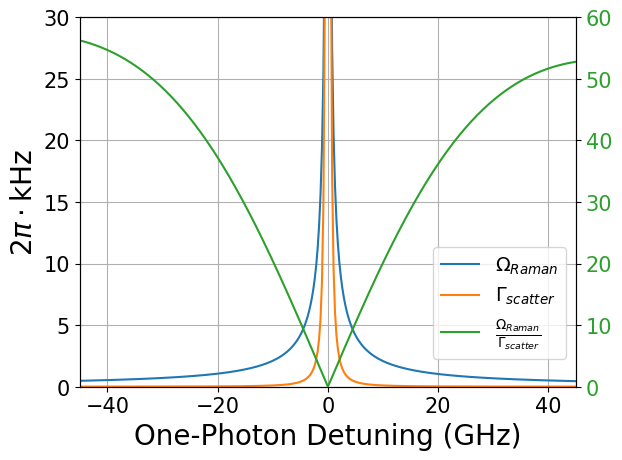
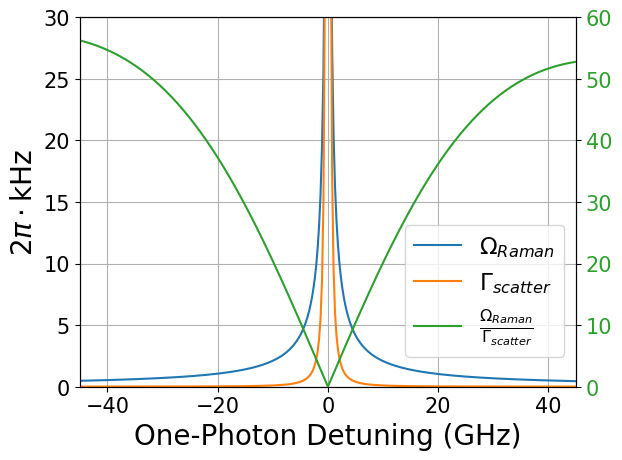
[presentations/damop-2020] WIP: tweak plot, bigger legend

Changed region(s): [[0.6415, 0.487, 0.9164, 0.7913], [0.672, 0.6087, 0.7637, 0.6696]]

diff --git a/presentations/damop-2020/present.tex b/presentations/damop-2020/present.tex
@@ -712,15 +712,15 @@
         };
       }
       \visible<4>{
-        \node[below, text width=6cm, align=center] (ThresholdPlot) at (8.13, 7.5)
+        \node[below, text width=5.4cm, align=center] (ThresholdPlot) at (8.13, 7.5)
         {
           {\usebeamercolor[fg]{frametitle}{\textbf{Near threshold states}}}
-          \includegraphics[width=5.3cm]{imgs/raman_vh.pdf}
+          \includegraphics[width=5.4cm]{imgs/raman_vh.pdf}
         };
-        \node[below, text width=6cm, align=center] (DeepPlot) at (8.13, 3.2)
+        \node[below, text width=5.4cm, align=center] (DeepPlot) at (8.13, 3.2)
         {
           {\usebeamercolor[fg]{frametitle}{\textbf{Deeply bound states}}}
-          \includegraphics[width=5.3cm]{imgs/raman_v0.pdf}
+          \includegraphics[width=5.4cm]{imgs/raman_v0.pdf}
         };
         \draw[->, blue, line width=2] (ThresholdPlot) -- (ThresholdHighlight);
         \draw[->, blue, line width=2] (DeepPlot) -- (DeepHighlight);
